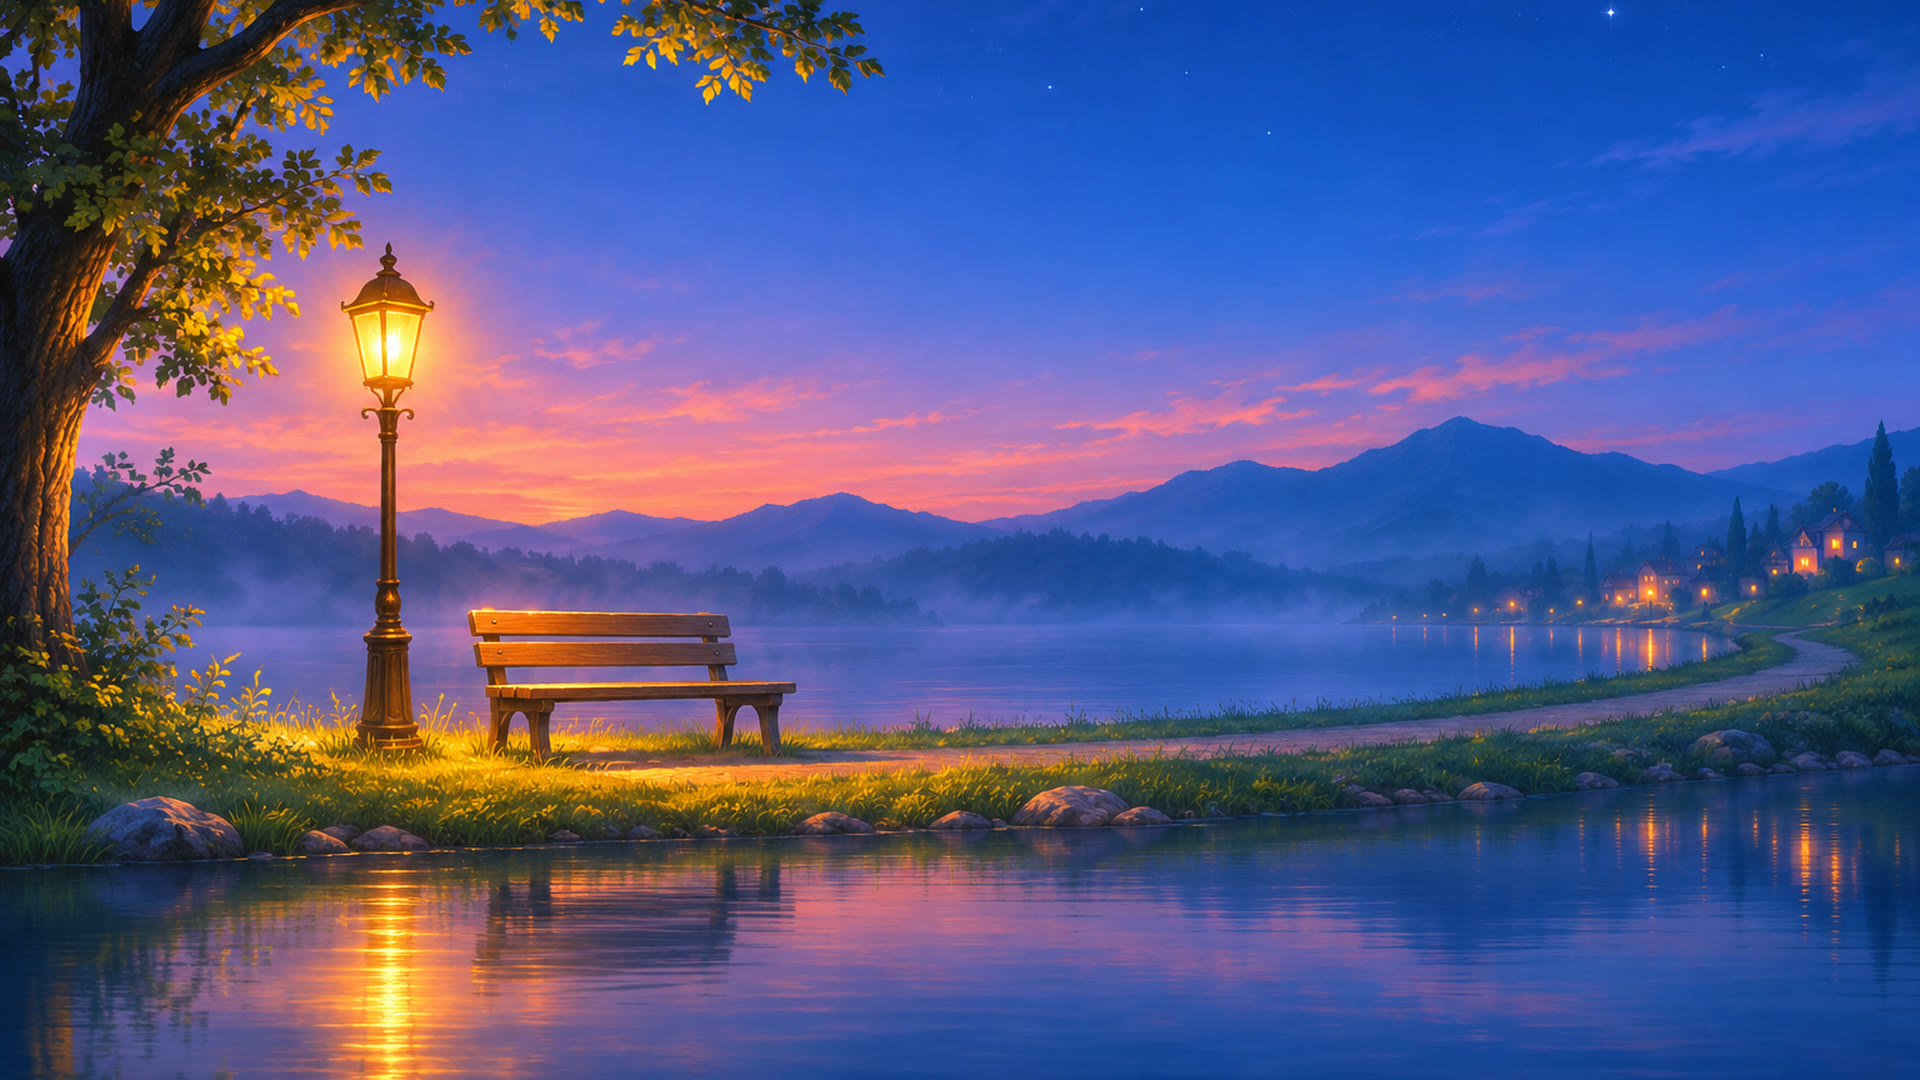
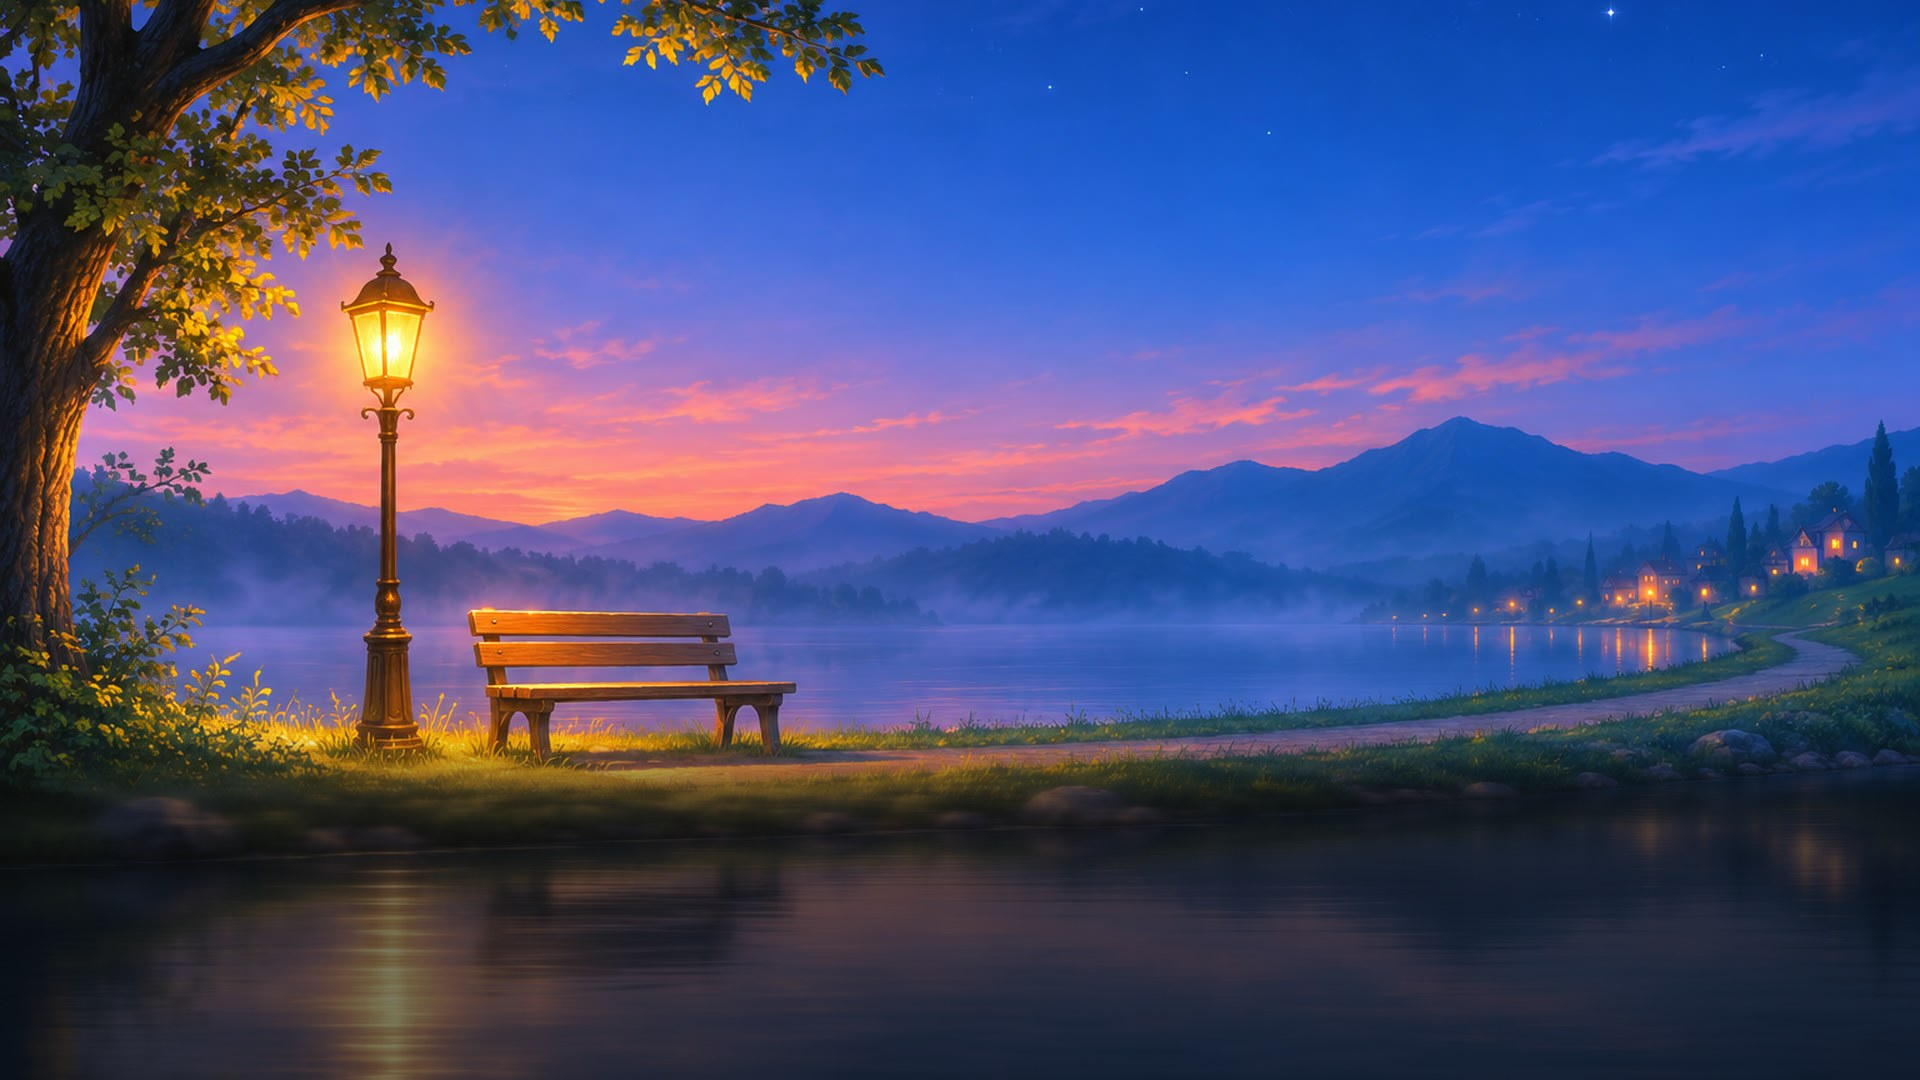
Song 07 promo v2: review fixes (figures, calm plates, windows, timing, lantern pair)
Claude-Session: https://claude.ai/code/session_01DSHsMeB7ain7qg3RYXYMEW

diff --git a/engine/songs/s07_no_one_lonely.py b/engine/songs/s07_no_one_lonely.py
@@ -141,14 +141,14 @@ from track import Track   # the shared Track refuses keys that are not strictly 
 # the care line about 41 to 53, verse 2 begins at 56.
 # Reading time contract (PHASE2.md item 4): formation takes 3.75 s, then at least 6 s solid, a 1.6 s dissolve
 # and a clean 0.5 s gap before the next text.
-G_FORM, G_HOLD = 27.5, 37.3            # Greeting: solid 31.25 to 37.3 (6.05 s); dissolve ends 38.9
-C_FORM, C_HOLD = 39.4, 49.2            # Consideration: solid 43.15 to 49.2 (6.05 s); dissolve ends 50.8
+G_FORM, G_HOLD = 26.0, 35.8            # Greeting: solid 29.75 to 35.8 (6.05 s); dissolve ends 37.4
+C_FORM, C_HOLD = 37.9, 47.7            # Consideration: solid 41.65 to 47.7 (6.05 s); dissolve ends 49.3
 NINTH = 1e9                            # no whole-arch glow in this promo
-TITLE_HIT = 54.3                       # title starts forming at 51.3
+TITLE_HIT = 52.8                       # title starts forming at 49.8; the end card is whole from about 56.2
 SKYLINE_LANTERN = 0.0                  # every scene is a painted plate with its own mountains
 BOTTOM_CALM = 1.0
 TEXT_PROTECT = 1.0
-TEXT_SHADOW = Track([(0, 1.2), (36.0, 1.2), (39.0, 1.6), (TOTAL, 1.7)])   # stronger on the bright village and gate
+TEXT_SHADOW = Track([(0, 0.9), (12.5, 0.9), (14.0, 1.2), (35.0, 1.2), (37.0, 1.6), (TOTAL, 1.7)])   # stronger on the bright village and gate
 
 # Star history (CONTINUITY-BOARD.md): rings earned before song 07. Apology relit in song 04, Inclusiveness relit
 # in song 06, Encouragement relit in songs 02, 03 and 05.
@@ -195,68 +195,86 @@ P = "assets/plates/s07/"
 F = "assets/song_figures/s07/"
 L = "assets/figures/"
 
-# A. Five scenes (design section 16), each a different place on the long path home
+# A. Five scenes (design section 16), each a different place on the long path home. The plates' lower thirds are
+# calmed in the files themselves (darker, half the colour, reflections smeared; assets/plates/s07/calm_plate.py).
+VILLAGE_ZOOM = 1.08
 SCENES = [
     # 1. The lone light at blue dusk: the long shore path, the bench under the lamp post
-    dict(image=P + "path_at_dusk.jpg", t0=0.0, t1=13.5, fade_in=1.0, fade_out=2.5,
-         zoom=(1.10, 1.03), pan=((0.0, 0.0), (0.0, 0.0)), water=True, water_line=0.40),
-    # 2. Mother's wish lights the way: the horizon star and the line of lights along the shore (bloom)
-    dict(image=P + "the_lit_path.jpg", t0=11.0, t1=26.5, fade_in=2.5, fade_out=2.5, transition="bloom",
-         flash=0.8, zoom=(1.02, 1.08), water=True, water_line=0.45),
+    dict(image=P + "path_at_dusk.jpg", t0=0.0, t1=14.5, fade_in=1.0, fade_out=2.0,
+         zoom=(1.03, 1.0), water=True, water_line=0.40),
+    # 2. Mother's wish lights the way: close on the line of lights running from Her star along the shore (bloom)
+    dict(image=P + "the_lit_path.jpg", t0=12.5, t1=25.5, fade_in=2.0, fade_out=2.5, transition="bloom",
+         flash=0.5, zoom=(1.38, 1.44), pan=((-0.14, 0.0), (-0.14, 0.0)), water=True, water_line=0.45),
     # 3. "How are you?": the bench by the shore (the camera pushes in)
-    dict(image=P + "bench_by_the_shore.jpg", t0=24.0, t1=40.0, fade_in=2.5, fade_out=2.0, transition="push",
-         zoom=(1.12, 1.08), water=True, water_line=0.21,
-         gain=Track([(0, 1.0), (27.0, 1.0), (30.0, 0.86), (37.5, 0.86), (40.0, 1.0)])),
-    # 4. The helping hand and the lantern procession: the village path (a ripple of stillness across the lake)
-    dict(image=P + "village_path.jpg", t0=38.0, t1=52.0, fade_in=2.0, fade_out=2.0, transition="ripple",
-         ripple_from=(0.45, 0.28), zoom=(1.10, 1.16), pan=((0.0, 0.03), (0.0, 0.05)), water=True, water_line=0.27,
-         gain=Track([(0, 0.9), (40.0, 0.78), (49.0, 0.78), (52.0, 0.9)])),
+    dict(image=P + "bench_by_the_shore.jpg", t0=23.0, t1=38.0, fade_in=2.5, fade_out=2.0, transition="push",
+         zoom=(1.10, 1.08), water=True, water_line=0.21,
+         gain=Track([(0, 1.0), (26.0, 1.0), (29.0, 0.88), (36.0, 0.88), (38.0, 1.0)])),
+    # 4. The helping hand: the village path, its windows dark, a ripple of stillness across the lake; then
+    # "answered from the windows" (this song's own effect): the windows light up one by one, from the near house
+    # to the far end of the village, as the kindness spreads (assets/plates/s07/windows.py)
+    dict(image=P + "village_w0.jpg", t0=36.0, t1=42.5, fade_in=2.0, fade_out=1.2, transition="ripple",
+         ripple_from=(0.70, 0.30), zoom=VILLAGE_ZOOM, water=True, water_line=0.27, gain=0.9),
+    dict(image=P + "village_w1.jpg", t0=41.3, t1=44.5, fade_in=1.2, fade_out=1.2, zoom=VILLAGE_ZOOM,
+         water=True, water_line=0.27, gain=0.9),
+    dict(image=P + "village_w2.jpg", t0=43.3, t1=46.5, fade_in=1.2, fade_out=1.2, zoom=VILLAGE_ZOOM,
+         water=True, water_line=0.27, gain=0.9),
+    dict(image=P + "village_w3.jpg", t0=45.3, t1=48.5, fade_in=1.2, fade_out=1.2, zoom=VILLAGE_ZOOM,
+         water=True, water_line=0.27, gain=0.9),
+    dict(image=P + "village_path.jpg", t0=47.3, t1=52.5, fade_in=1.2, fade_out=2.0, zoom=VILLAGE_ZOOM,
+         water=True, water_line=0.27, gain=0.9),
     # 5. Toward home: the lantern path up to the gate of light in the clouds
-    dict(image=P + "gate_of_home.jpg", t0=50.0, t1=61.0, fade_in=2.0, fade_out=0.0, transition="dissolve",
-         zoom=(1.04, 1.10), pan=((0.0, 0.0), (0.0, 0.0)), water=True, water_line=0.21,
-         gain=Track([(0, 1.0), (52.0, 0.92), (55.0, 0.74), (TOTAL, 0.74)])),
+    dict(image=P + "gate_of_home.jpg", t0=50.5, t1=61.0, fade_in=2.0, fade_out=0.0, transition="fade",
+         zoom=(1.04, 1.08), water=True, water_line=0.21,
+         gain=Track([(0, 0.92), (52.0, 0.86), (54.0, 0.74), (TOTAL, 0.74)])),
 ]
 
-# B. People of light. The traveler and Heavenly Mother (seen only from behind, robed, a lamp raised) are this
-# song's own figures; the helper's Greeting and Consideration come from the shared library.
+# B. People of light. The traveler, Heavenly Mother (seen only from behind, robed, a lamp raised) and the lantern
+# pair are this song's own figures; the helper comes from the shared Greeting pose (only the helper, so the one
+# greeted is the traveler on the bench) and Consideration is the shared pair.
 FIGURES = [
-    # scene 1: the elderly traveler walks the path with a heavy bundle and sits down on the bench
-    dict(poses=[F + "s07_traveler_walk.png", F + "s07_traveler_seated.png"], t0=1.0, t1=11.5, pose_times=[7.5],
-         morph=2.2, x=0.30, y=0.40, height=0.27, color="#ffcf9a", to=(0.10, 0.47), dissolve=3.0),
+    # scene 1: the elderly traveler walks the shore path toward the bench with her heavy bundle and stick ...
+    dict(poses=[F + "s07_traveler_walk.png"], t0=0.8, t1=5.4, x=0.40, y=0.45, height=0.22, flip=True,
+         color="#ffcf9a", to=(0.235, 0.52), dissolve=2.0),
+    # ... and sits down alone on the bench under the lamp
+    dict(poses=[F + "s07_traveler_seated.png"], t0=5.0, t1=11.5, gather=2.5, x=0.235, y=0.455, height=0.18,
+         color="#ffd2a0", to=(0.14, 0.50), dissolve=2.5),
     # scene 2: the lone light on the far bench, found by the path of light from Mother's star
-    dict(poses=[F + "s07_traveler_seated.png"], t0=13.0, t1=24.0, x=0.115, y=0.44, height=0.15,
-         color="#ffd2a0", glow=1.2, to=(0.33, 0.36), dissolve=2.6),
-    # scene 3: still alone on the bench, until the helper comes
-    dict(poses=[F + "s07_traveler_seated.png"], t0=23.5, t1=27.0, x=0.33, y=0.25, height=0.30,
-         color="#ffd2a0", to=(0.58, 0.40), dissolve=2.0, gather=2.0),
-    # Greeting: the helper walks up and greets the lonely one, who places their hands in the offered hands
-    dict(poses=[L + "greeting_a.png", L + "greeting_b.png"], t0=25.0, t1=36.8, pose_times=[31.0],
-         x=0.50, y=0.20, height=0.40, to_star=0, color="#ffd59a"),
+    dict(poses=[F + "s07_traveler_seated.png"], t0=13.5, t1=23.5, gather=2.5, x=0.14, y=0.44, height=0.17,
+         color="#ffd2a0", glow=1.2, to=(0.29, 0.40), dissolve=2.4),
+    # scene 3: still alone on the bench through the Greeting ...
+    dict(poses=[F + "s07_traveler_seated.png"], t0=23.5, t1=35.3, gather=2.5, x=0.29, y=0.28, height=0.28,
+         color="#ffd2a0", to_star=0),
+    # ... the helper walks up, waves, and holds out both hands to her: "How are you?"
+    dict(poses=[F + "s07_helper_greet_a.png", F + "s07_helper_greet_b.png"], t0=25.0, t1=35.3,
+         pose_times=[30.0], x=0.47, y=0.28, height=0.36, flip=True, to_star=0, color="#ffd59a"),
     # Consideration: the helper offers a hand with the heavy bundle, and they carry it together
-    dict(poses=[L + "consideration_a.png", L + "consideration_b.png"], t0=38.2, t1=48.7, pose_times=[43.5],
-         x=0.50, y=0.20, height=0.40, to_star=7, color="#ffc98a"),
-    # scene 5: Heavenly Mother, seen only from behind, lamp held high, leads the way up the path, and Her light
-    # goes on to the gate of home
-    dict(poses=[F + "s07_mother_lamp_behind.png"], t0=49.5, t1=55.5, x=0.20, y=0.20, height=0.34,
-         color="#fff0d2", glow=1.1, to=(0.76, 0.80), dissolve=3.5),
+    dict(poses=[L + "consideration_a.png", L + "consideration_b.png"], t0=36.8, t1=C_HOLD - 0.5, pose_times=[42.0],
+         x=0.42, y=0.28, height=0.34, to_star=7, color="#ffc98a"),
+    # the lantern procession: the front pair of lantern-bearers walks up the village path
+    dict(poses=[F + "s07_lantern_pair.png"], t0=44.0, t1=51.0, x=0.77, y=0.37, height=0.21,
+         color="#ffd27a", glow=1.1, leave="drift", dissolve=3.0),
+    # scene 5: Heavenly Mother, seen only from behind, lamp held high, leads the way home up the path (below the
+    # end card; She stays to the end)
+    dict(poses=[F + "s07_mother_lamp_behind.png"], t0=52.0, t1=70.0, x=0.17, y=0.12, height=0.25,
+         color="#fff0d2", glow=1.1),
 ]
 
 # C. Signature effects. The lone light found: a path of light from the horizon star along the shore to the bench
-# (scene 2). The gate of light: a gentle beam from the gate down onto the lantern path (scene 5).
-BEAM = Track([(0, 0.0), (15.5, 0.0), (19.0, 0.55), (23.0, 0.55), (25.5, 0.0), (51.5, 0.0), (54.0, 0.40),
-              (TOTAL, 0.40)])
+# (scene 2). The gate of light: a gentle beam from the gate down onto the upper path, right of the end card.
+BEAM = Track([(0, 0.0), (15.5, 0.0), (19.0, 0.70), (23.0, 0.70), (25.0, 0.0), (52.5, 0.0), (54.5, 0.25),
+              (TOTAL, 0.25)])
 
 
 def BEAM_FROM(t):
-    return (0.53, 0.55) if t < 40.0 else (0.76, 0.84)
+    return (0.74, 0.556) if t < 40.0 else (0.79, 0.85)
 
 
 def BEAM_TO(t):
-    return (0.12, 0.46) if t < 40.0 else (0.36, 0.30)
+    return (0.16, 0.46) if t < 40.0 else (0.75, 0.62)
 
 
 def BEAM_WIDTH(t):
-    return (0.012, 0.03) if t < 40.0 else (0.03, 0.07)
+    return (0.03, 0.05) if t < 40.0 else (0.02, 0.04)
 
 
 BEAM_COLOR = "#ffd9a8"
@@ -292,9 +310,9 @@ TITLE = dict(label="Healing Concert", lines=["The Words of Mother’s Love"], si
 # D. Short lyric fragments: Mother's wish written by a pen of light, and the refrain rising out of the lake;
 # never on screen together with an expression
 FRAGMENTS = [
-    dict(text="“on the path to heaven”", t0=4.5, t1=7.5, out=11.5, dy=0.10, size=84, glow="#ffe4c0", style="write"),
-    dict(text="our Mother’s earnest wish", t0=14.5, t1=18.5, out=23.5, dy=0.04, size=78, glow="#ffd6b8",
-         style="reflection", line=0.45),
+    dict(text="“on the path to heaven”", t0=4.2, t1=7.2, out=10.2, dy=0.10, size=84, glow="#ffe4c0", style="write"),
+    dict(text="our Mother’s earnest wish", t0=15.5, t1=19.5, out=23.0, dy=0.04, size=78, glow="#ffd6b8",
+         style="reflection", line=0.55),
 ]
 
 # the three-line end card (PHASE2.md item 7)
@@ -330,9 +348,9 @@ def credit_state(t, bbox):
 
 # Waves of light when a light is lit, and the peace ring: a wave of stillness across the lake after each of
 # Mother's words (unrest to stillness)
-WAVES = [(PHRASES[0]["star"], STAR_POS[0][0], STAR_POS[0][1], 0.9),
+WAVES = [(PHRASES[0]["star"], STAR_POS[0][0], STAR_POS[0][1], 0.5),
          (PHRASES[7]["arrive"], STAR_POS[7][0], STAR_POS[7][1], 0.6),
-         (G_HOLD + 2.6, 0.5, 0.40, 0.8), (C_HOLD + 2.6, 0.5, 0.40, 0.8),
+         (G_HOLD + 2.6, 0.5, 0.40, 0.8), (C_HOLD + 1.8, 0.5, 0.30, 0.6),
          (TITLE_HIT, 0.5, 0.62, 1.1)]
 
 

diff --git a/assets/song_figures/s07/helpers.py b/assets/song_figures/s07/helpers.py
@@ -1,0 +1,50 @@
+"""Song 07 only: poses made from the shared library (assets/figures/), kept on the same 1536x1024 canvas.
+- s07_helper_greet_a / _b: only the helper (left person) of greeting_a / greeting_b, so the seated traveler on the
+  bench is the one being greeted (no second, standing lonely figure).
+- s07_lantern_pair: two walking helpers from greeting_a, each holding up a lantern (the lantern drawn from
+  Heavenly Mother's lamp picture, Drive Assets/s07/figures), the front pair of the lantern procession.
+Usage: python helpers.py <repo root> <mother lamp source picture>
+"""
+import sys
+import numpy as np
+from PIL import Image
+
+root, lamp_src = sys.argv[1], sys.argv[2]
+lib = root + "/assets/figures/"
+dst = root + "/assets/song_figures/s07/"
+
+
+def load(name):
+    return np.asarray(Image.open(lib + name).convert("L")).astype(np.float32)
+
+
+def save(a, name):
+    Image.fromarray(np.clip(a, 0, 255).astype(np.uint8)).save(dst + name, optimize=True)
+
+
+ga, gb = load("greeting_a.png"), load("greeting_b.png")
+a = ga.copy(); a[:, 900:] = 0
+save(a, "s07_helper_greet_a.png")
+b = gb.copy(); b[:, 812:] = 0
+save(b, "s07_helper_greet_b.png")
+
+# the lantern: cut from the lamp picture (682x1024), scaled to about 120 px tall
+lm = np.asarray(Image.open(lamp_src).convert("L")).astype(np.float32)
+lan = lm[60:185, 430:520]
+lan = np.where(lan > 40, lan, 0)
+li = Image.fromarray(lan.astype(np.uint8)).resize((104, 145), Image.LANCZOS)
+lan = np.asarray(li).astype(np.float32)
+
+bearer = ga.copy(); bearer[:, 900:] = 0
+hx, hy = 712, 228          # the raised hand of the walking helper
+y0, x0 = hy, hx - lan.shape[1] // 2
+bearer[y0:y0 + lan.shape[0], x0:x0 + lan.shape[1]] = np.maximum(bearer[y0:y0 + lan.shape[0], x0:x0 + lan.shape[1]], lan)
+pair = bearer.copy()
+shift = 520
+pair[:, shift:] = np.maximum(pair[:, shift:], bearer[:, :-shift])
+# keep the drawing inside the canvas width and centred like the library poses
+ys, xs = np.nonzero(pair > 60)
+cx = (xs.min() + xs.max()) // 2
+pair = np.roll(pair, 768 - cx, axis=1)
+save(pair, "s07_lantern_pair.png")
+print("ok", xs.min(), xs.max())

diff --git a/assets/plates/s07/windows.py b/assets/plates/s07/windows.py
@@ -1,0 +1,33 @@
+"""Song 07 only: "answered from the windows". From the calmed village plate, make variants where the warm windows,
+doorways and lanterns are dark, then light up band by band from the near house to the far end of the village.
+Usage: python windows.py <original village plate> <calmed village plate> <out dir>
+Writes village_w0.jpg (all dark) .. village_w3.jpg (three bands lit); the calmed plate itself is the last step.
+"""
+import sys
+import numpy as np
+from PIL import Image, ImageFilter
+
+orig = np.asarray(Image.open(sys.argv[1]).convert("RGB")).astype(np.float32) / 255
+calm = np.asarray(Image.open(sys.argv[2]).convert("RGB")).astype(np.float32) / 255
+out = sys.argv[3]
+h, w, _ = orig.shape
+r, g, b = orig[..., 0], orig[..., 1], orig[..., 2]
+lum = 0.2126 * r + 0.7152 * g + 0.0722 * b
+warm = ((r > 0.55) & (r - b > 0.25) & (lum > 0.38)).astype(np.float32)
+warm[int(h * 0.66):] = 0.0                      # leave the calmed water alone
+warm[:int(h * 0.20)] = 0.0                      # and the sunset sky
+warm[:int(h * 0.30), int(w * 0.38):] = 0.0
+m = Image.fromarray((warm * 255).astype(np.uint8)).filter(ImageFilter.MaxFilter(9)).filter(ImageFilter.GaussianBlur(14))
+m = np.clip(np.asarray(m).astype(np.float32) / 255 * 1.8, 0, 1)
+ll = (calm @ np.array([0.2126, 0.7152, 0.0722], dtype=np.float32))[..., None]
+dark = (ll + 0.35 * (calm - ll)) * 0.30 * np.array([0.85, 0.9, 1.15], dtype=np.float32)
+xs = np.arange(w, dtype=np.float32) / w
+bands = [0.0, 0.30, 0.52, 0.72, 1.01]
+for k in range(4):
+    # bands below k are lit, the rest dark (soft band edges)
+    lit_to = bands[k]
+    off = np.clip((xs - lit_to) / 0.02 + 0.5, 0, 1)[None, :] if k > 0 else np.ones((1, w), np.float32)
+    mk = (m * off)[..., None]
+    img = calm * (1 - mk) + dark * mk
+    Image.fromarray((np.clip(img, 0, 1) * 255 + 0.5).astype(np.uint8)).save(f"{out}/village_w{k}.jpg", quality=86)
+    print(k)

diff --git a/assets/song_figures/s07/prep_outline.py b/assets/song_figures/s07/prep_outline.py
@@ -1,0 +1,40 @@
+"""Song 07 only: turn a filled glowing figure into outline art, then size it like tools/prepare_figure.py
+(1536x1024, 940 px tall, feet on y = 1000) without the row wipe that erased filled figures.
+Usage: python prep_outline.py src dst [row@x0:x1] [y0:y1,x0:x1]
+The optional cuts erase a drawn ground line after the outline is made (so the cut leaves no edge of its own):
+everything below `row` except columns x0:x1 (the feet), and a rectangle.
+"""
+import sys
+import numpy as np
+from PIL import Image, ImageFilter
+
+CANVAS_W, CANVAS_H, CONTENT_H, FEET_Y = 1536, 1024, 940, 1000
+
+src, dst = sys.argv[1], sys.argv[2]
+g = np.asarray(Image.open(src).convert("L")).astype(np.float32) / 255.0
+sm = np.asarray(Image.fromarray((g * 255).astype(np.uint8)).filter(ImageFilter.GaussianBlur(1.2))).astype(np.float32) / 255
+gy, gx = np.gradient(sm)
+e = np.hypot(gx, gy)
+e = np.clip(e / np.percentile(e[e > 0.004], 97), 0, 1) ** 0.8
+out = np.clip(np.maximum(e, 0.22 * g), 0, 1)
+out[g < 0.04] = 0.0
+if len(sys.argv) > 3:
+    row, keep = sys.argv[3].split("@")
+    row = int(row)
+    x0, x1 = map(int, keep.split(":"))
+    sub = out[row:, x0:x1].copy()
+    out[row:] = 0.0
+    out[row:, x0:x1] = sub
+if len(sys.argv) > 4:
+    (a, b), (c, d) = [tuple(map(int, p.split(":"))) for p in sys.argv[4].split(",")]
+    out[a:b, c:d] = 0.0
+ys, xs = np.nonzero(out > 0.2)
+y0, y1, x0, x1 = ys.min(), ys.max() + 1, xs.min(), xs.max() + 1
+crop = Image.fromarray((out[y0:y1, x0:x1] * 255).astype(np.uint8))
+s = CONTENT_H / (y1 - y0)
+cw, ch = int(round((x1 - x0) * s)), int(round((y1 - y0) * s))
+crop = crop.resize((cw, ch), Image.LANCZOS)
+canvas = Image.new("L", (CANVAS_W, CANVAS_H), 0)
+canvas.paste(crop, ((CANVAS_W - cw) // 2, FEET_Y - ch))
+canvas.save(dst, optimize=True)
+print(dst, (x1 - x0, y1 - y0))

diff --git a/assets/plates/s07/calm_plate.py b/assets/plates/s07/calm_plate.py
@@ -1,0 +1,27 @@
+"""Song 07 only: calm the lower third of a plate (Astra / attacker finding: busy reflections under the performers).
+Below `top` (fraction of the height from the bottom, default 0.35) the picture is smeared sideways (softens the
+reflection streaks), its saturation halved and its brightness brought to `level` (default 0.5), with a soft ramp.
+Usage: python calm_plate.py src dst [top] [level]
+"""
+import sys
+import numpy as np
+from PIL import Image, ImageFilter
+
+src, dst = sys.argv[1], sys.argv[2]
+top = float(sys.argv[3]) if len(sys.argv) > 3 else 0.35
+level = float(sys.argv[4]) if len(sys.argv) > 4 else 0.5
+im = Image.open(src).convert("RGB")
+w, h = im.size
+a = np.asarray(im).astype(np.float32) / 255.0
+# sideways smear: a wide horizontal blur blended with a light overall blur
+hb = np.asarray(im.filter(ImageFilter.BoxBlur(0)).resize((w // 24, h), Image.BILINEAR).resize((w, h), Image.BILINEAR)).astype(np.float32) / 255
+sb = np.asarray(im.filter(ImageFilter.GaussianBlur(3))).astype(np.float32) / 255
+smear = 0.6 * hb + 0.4 * sb
+lum = (smear @ np.array([0.2126, 0.7152, 0.0722], dtype=np.float32))[..., None]
+calm = (lum + 0.5 * (smear - lum)) * level
+yb = 1.0 - (np.arange(h, dtype=np.float32) + 0.5) / h          # height from the bottom
+k = np.clip((top + 0.04 - yb) / 0.08, 0.0, 1.0)
+k = (k * k * (3 - 2 * k))[:, None, None]
+out = a * (1 - k) + calm * k
+Image.fromarray((np.clip(out, 0, 1) * 255 + 0.5).astype(np.uint8)).save(dst, quality=88)
+print(dst)
